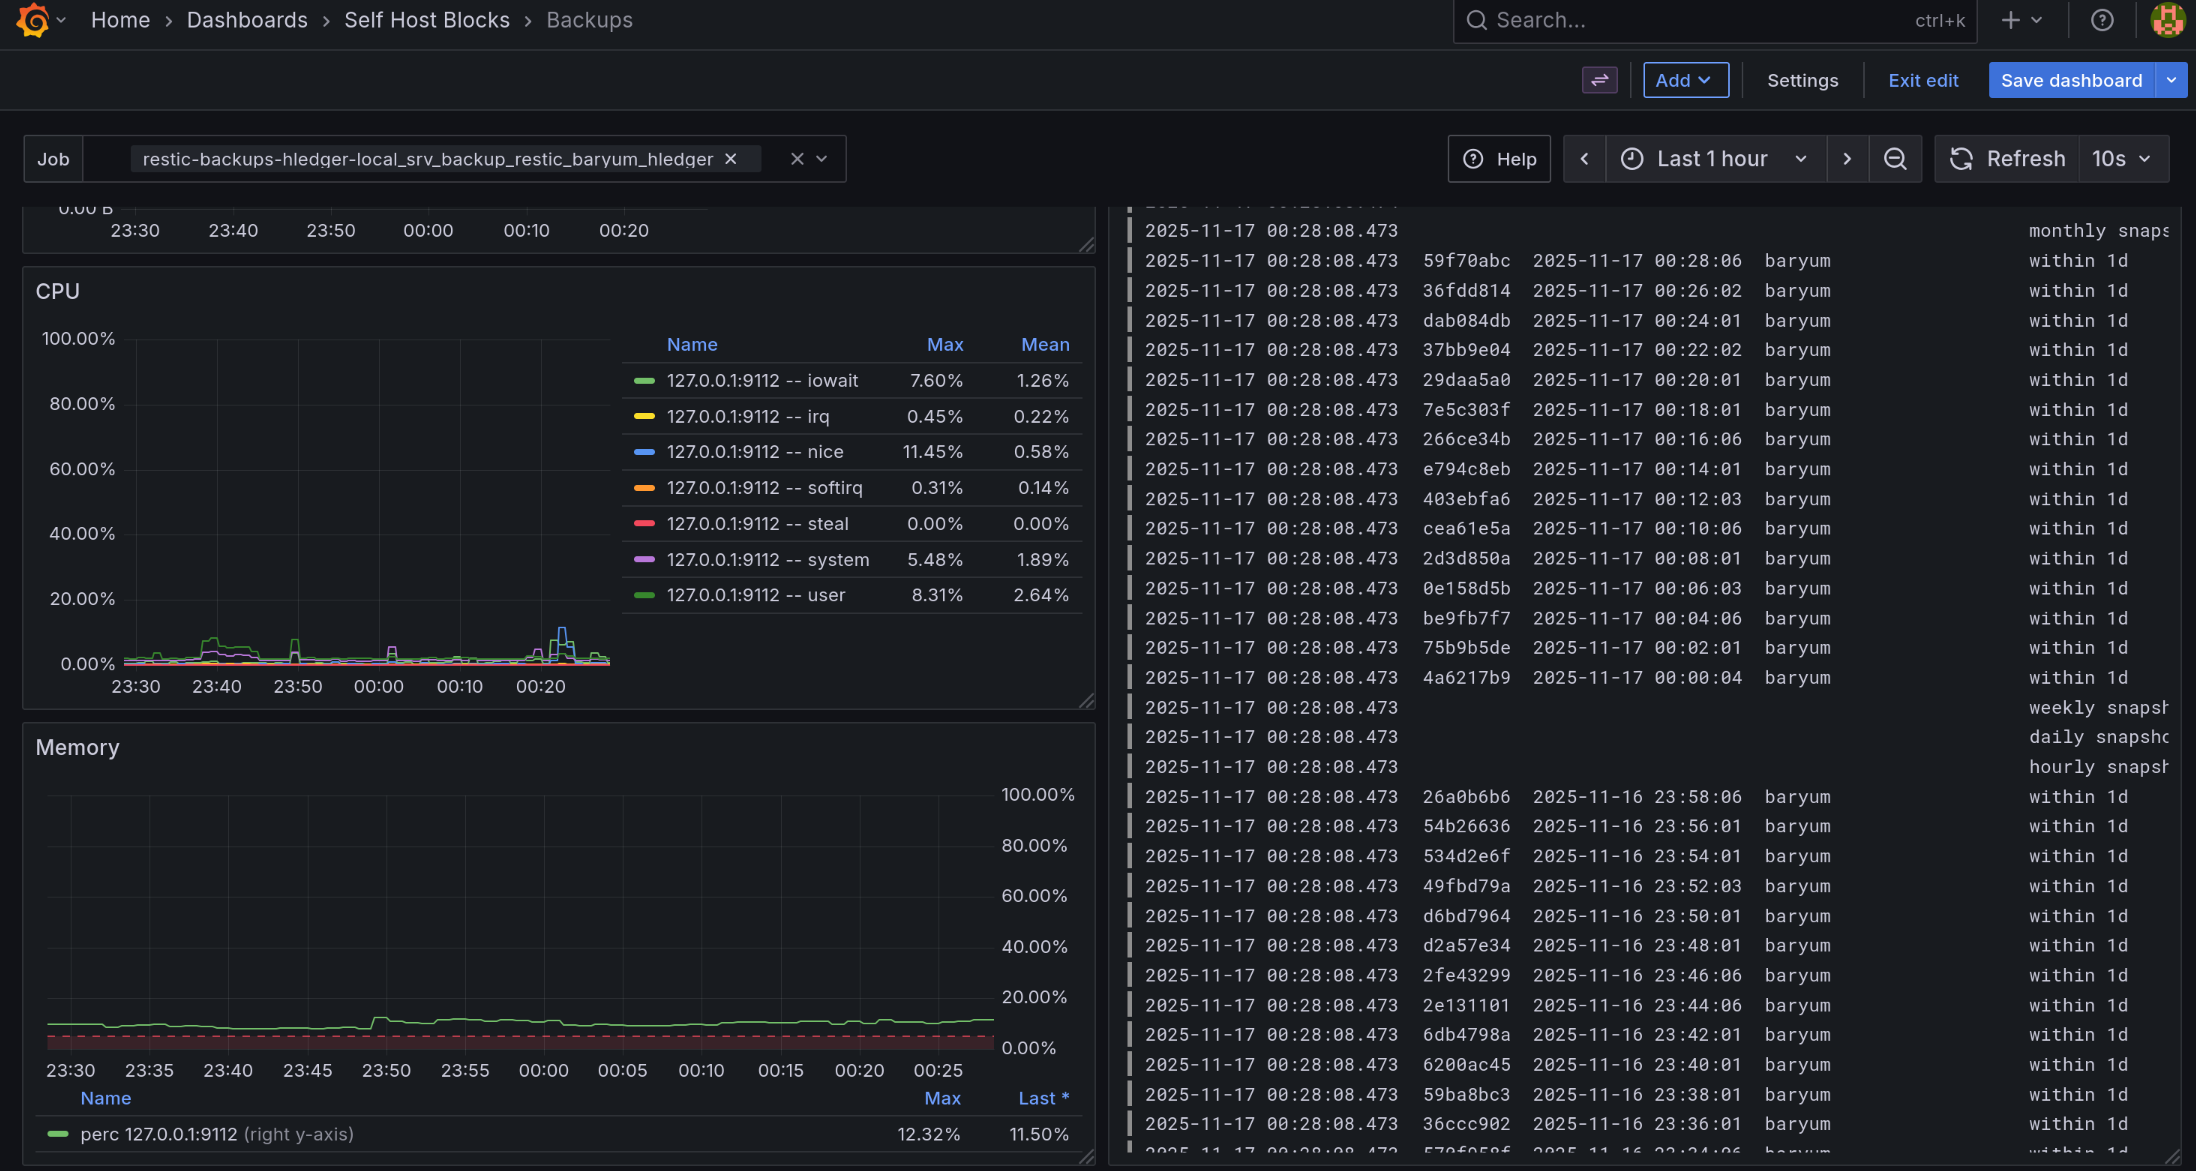
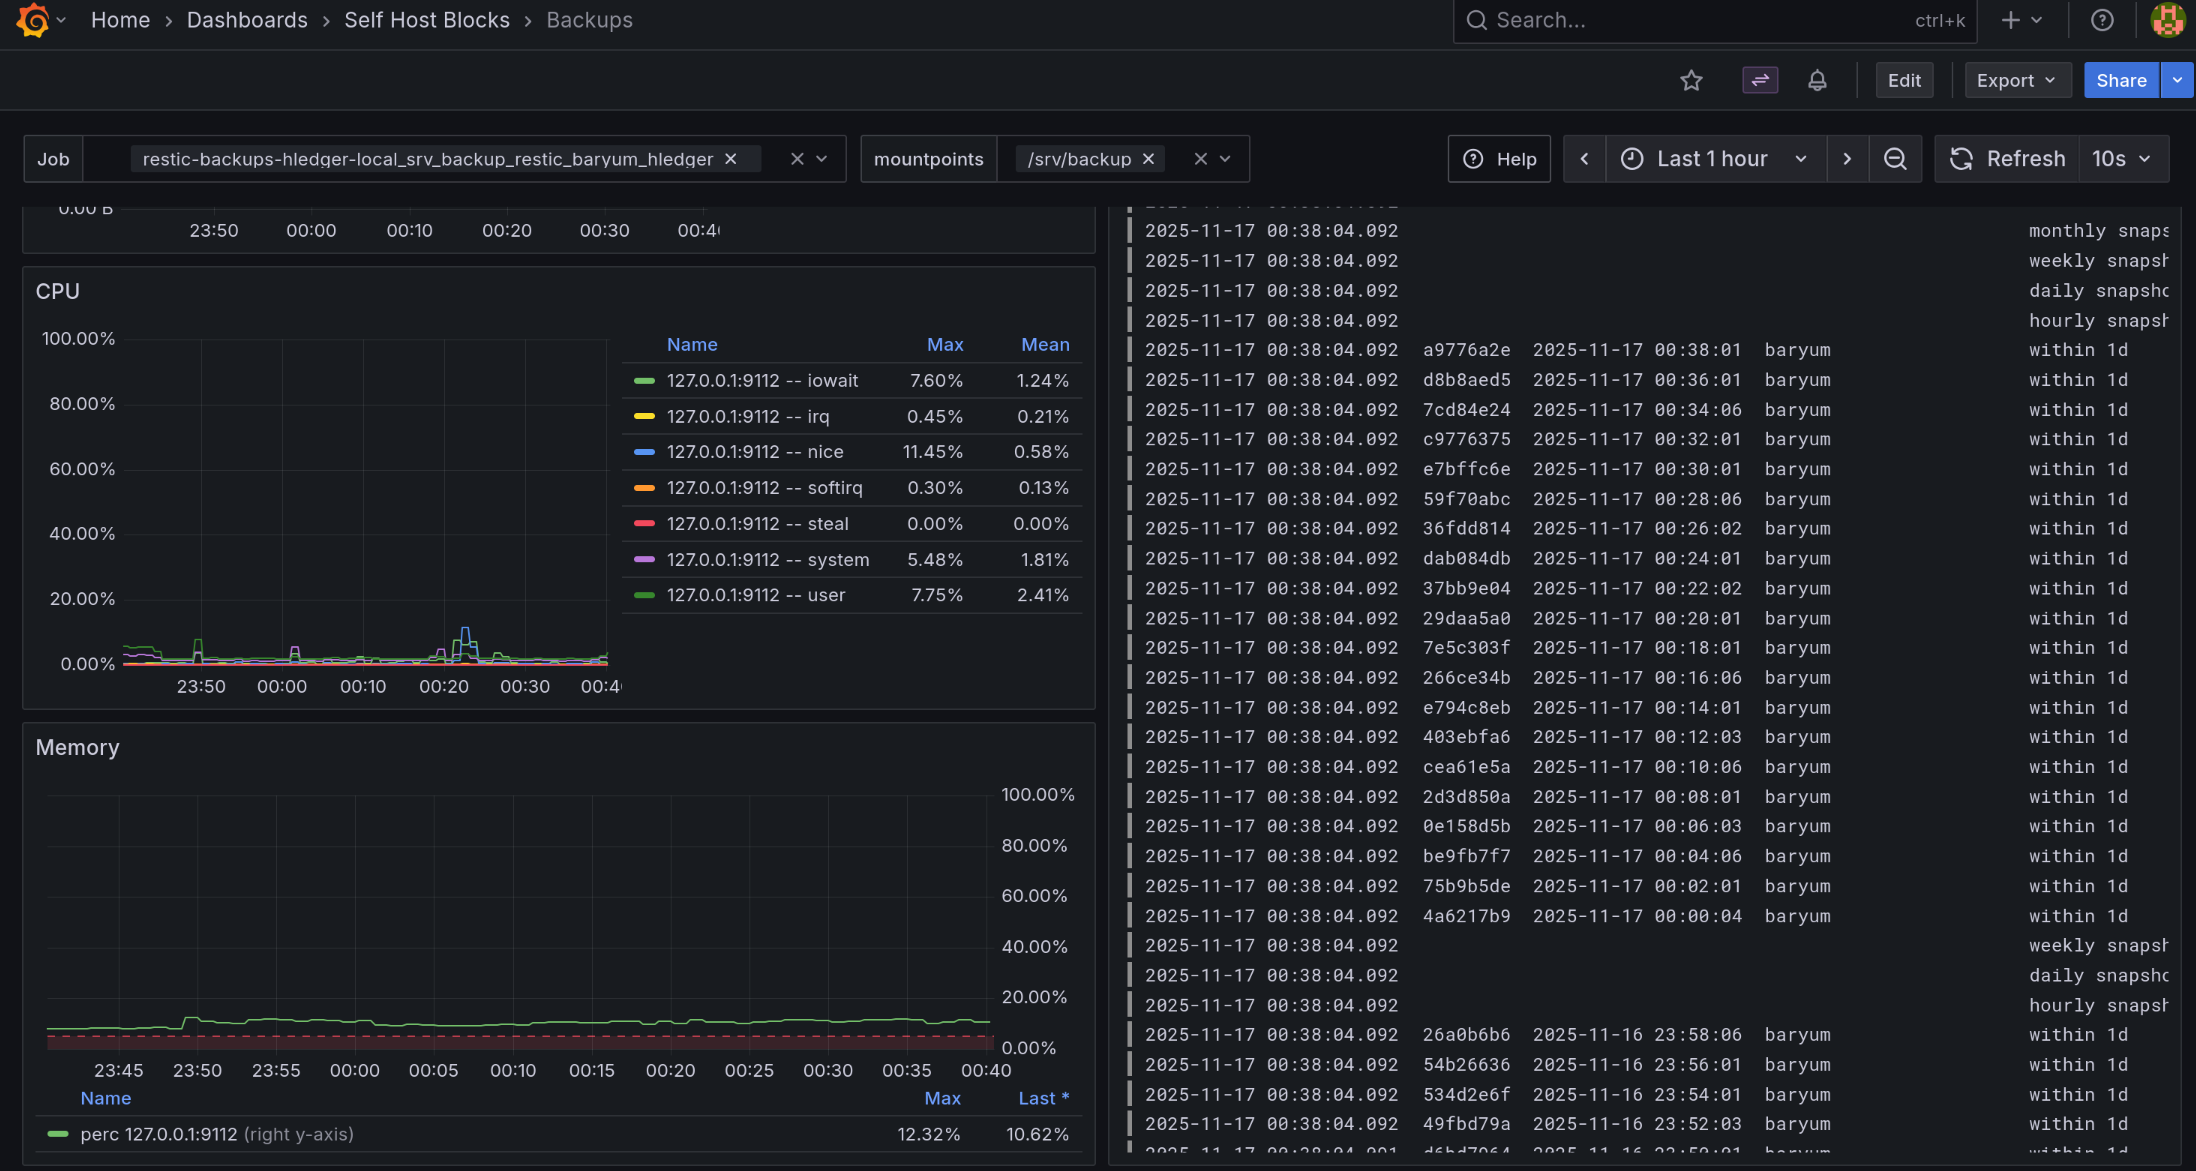
docs: add monitoring dashboard

diff --git a/modules/blocks/monitoring/docs/default.md b/modules/blocks/monitoring/docs/default.md
@@ -118,17 +118,42 @@ This dashboard is used to monitor a [deluge](./services-deluge.html) instance.
 ![Deluge Dashboard Top Part](./assets/dashboards_Deluge_1.png)
 ![Deluge Dashboard Bottom Part](./assets/dashboards_Deluge_2.png)
 
-## Backup Dashboard and Alert {#blocks-monitoring-backup-dashboard}
+## Backups Dashboard and Alert {#blocks-monitoring-backup}
 
 This dashboard show Restic and BorgBackup backup jobs, or any job with "backup" in the systemd service name.
 
+### Dashboard {#blocks-monitoring-backup-dashboard}
+
+Variables:
+
+- The "Job" variable allows to select one or more backup jobs. "All" is the default.
+- The "mountpoints" variable allows to select only relevant mountpoints for backup. "All" is the default.
+
 The most important graphs are the first three:
 
-- "Backup Jobs in the Past Week"
+- "Backup Jobs in the Past Week": Shows stats on all backup jobs that ran in the past.
+  It is sorted by the "Failed" column in descending order.
+  This way, one can directly see when a job has failures.
+- "Schedule": Shows when a job will run.
+  The unit is "Datetime from Now" meaning it shows when a job ran or will run relative to the current time.
+  An annotation will show up when the "Late Backups" alert fired or resolved.
+- "Backup jobs": Shows when a backup job ran.
+  Normally, jobs running for less than 15 seconds will not show up in the graph.
+  We crafted a query that still shows them but the length is 15 seconds, even if the backup job
+  took less time to run.
 
-![Backup Dashboard Top Part](./assets/dashboards_Backups_1.png)
-![Backup Dashboard Middle Part](./assets/dashboards_Backups_2.png)
-![Backup Dashboard Bottom Part](./assets/dashboards_Backups_3.png)
+![Backups Dashboard Top Part](./assets/dashboards_Backups_1.png)
+![Backups Dashboard Middle Part](./assets/dashboards_Backups_2.png)
+![Backups Dashboard Bottom Part](./assets/dashboards_Backups_3.png)
+
+### Alerts {#blocks-monitoring-backup-alerts}
+
+- The "Late Backups" alert will fire if a backup job did not run at all in the last 24 hours
+  or if all runs were failures in the last 24 hours.
+  It will show up as annotations in the "Schedule" panel of the dashboard.
+
+![Late Backups Alert Firing](./assets/alert_rules_LateBackups_1.png)
+![Backups Alert Showing Up In Dashboard](./assets/dashboards_Backups_alert.png)
 
 ## Requests Error Budget Alert {#blocks-monitoring-budget-alerts}
 
